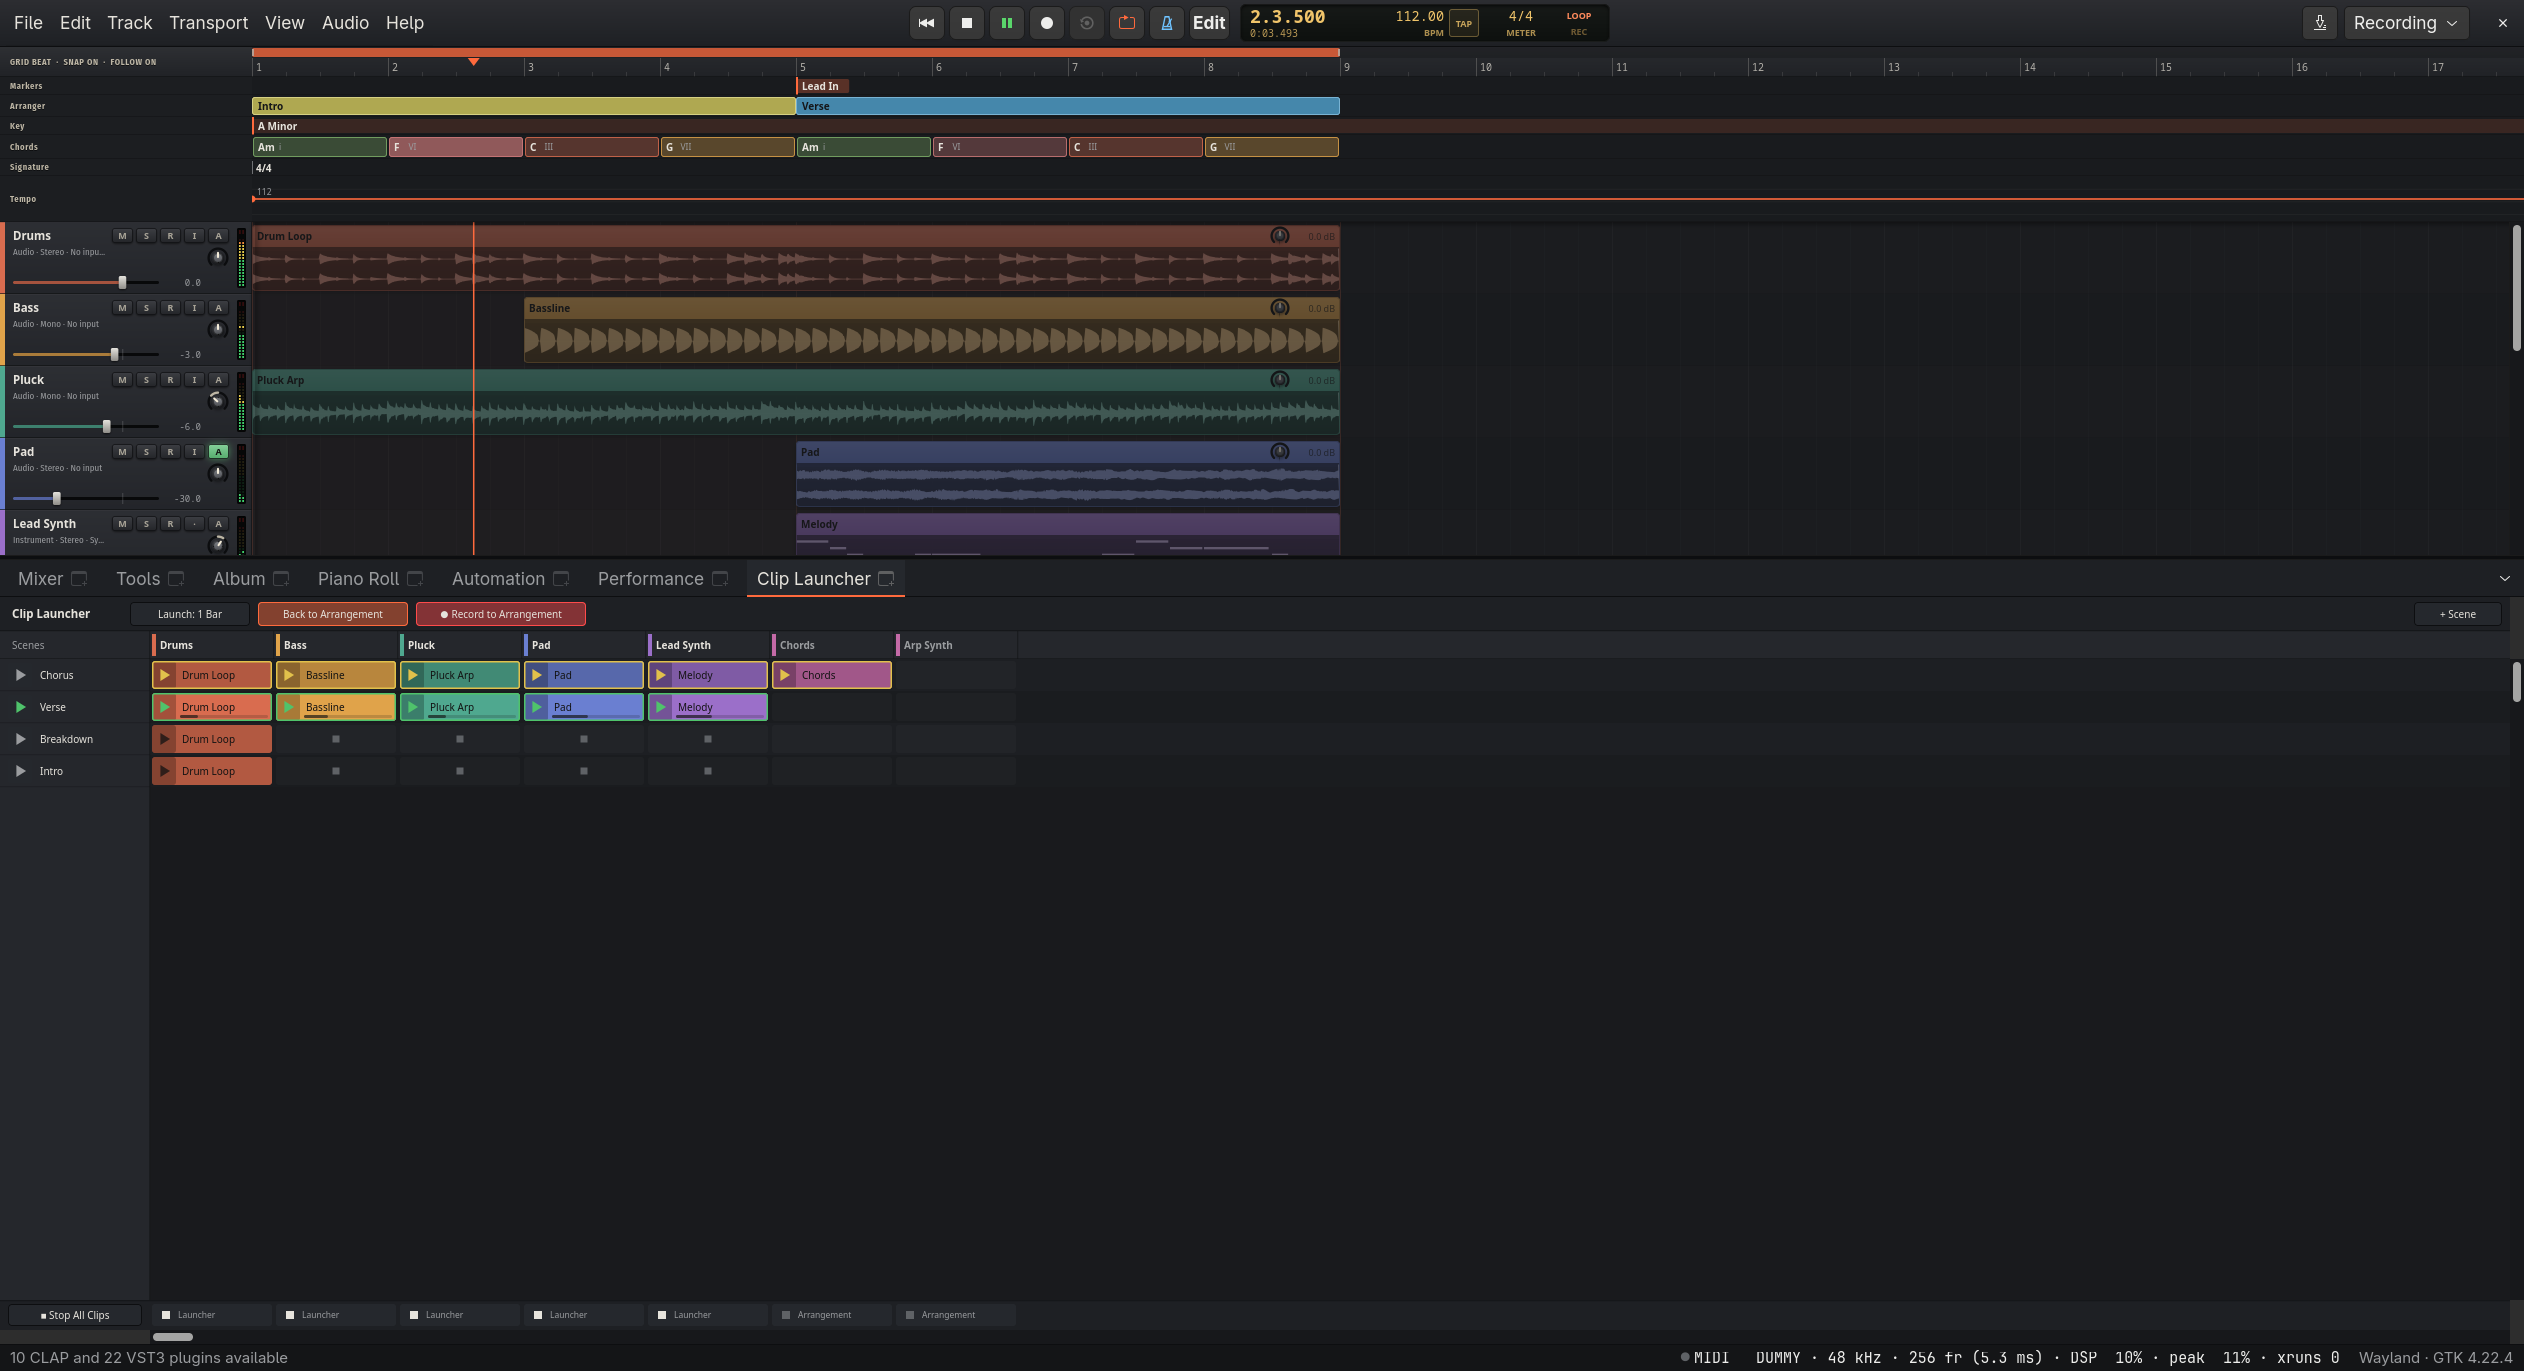
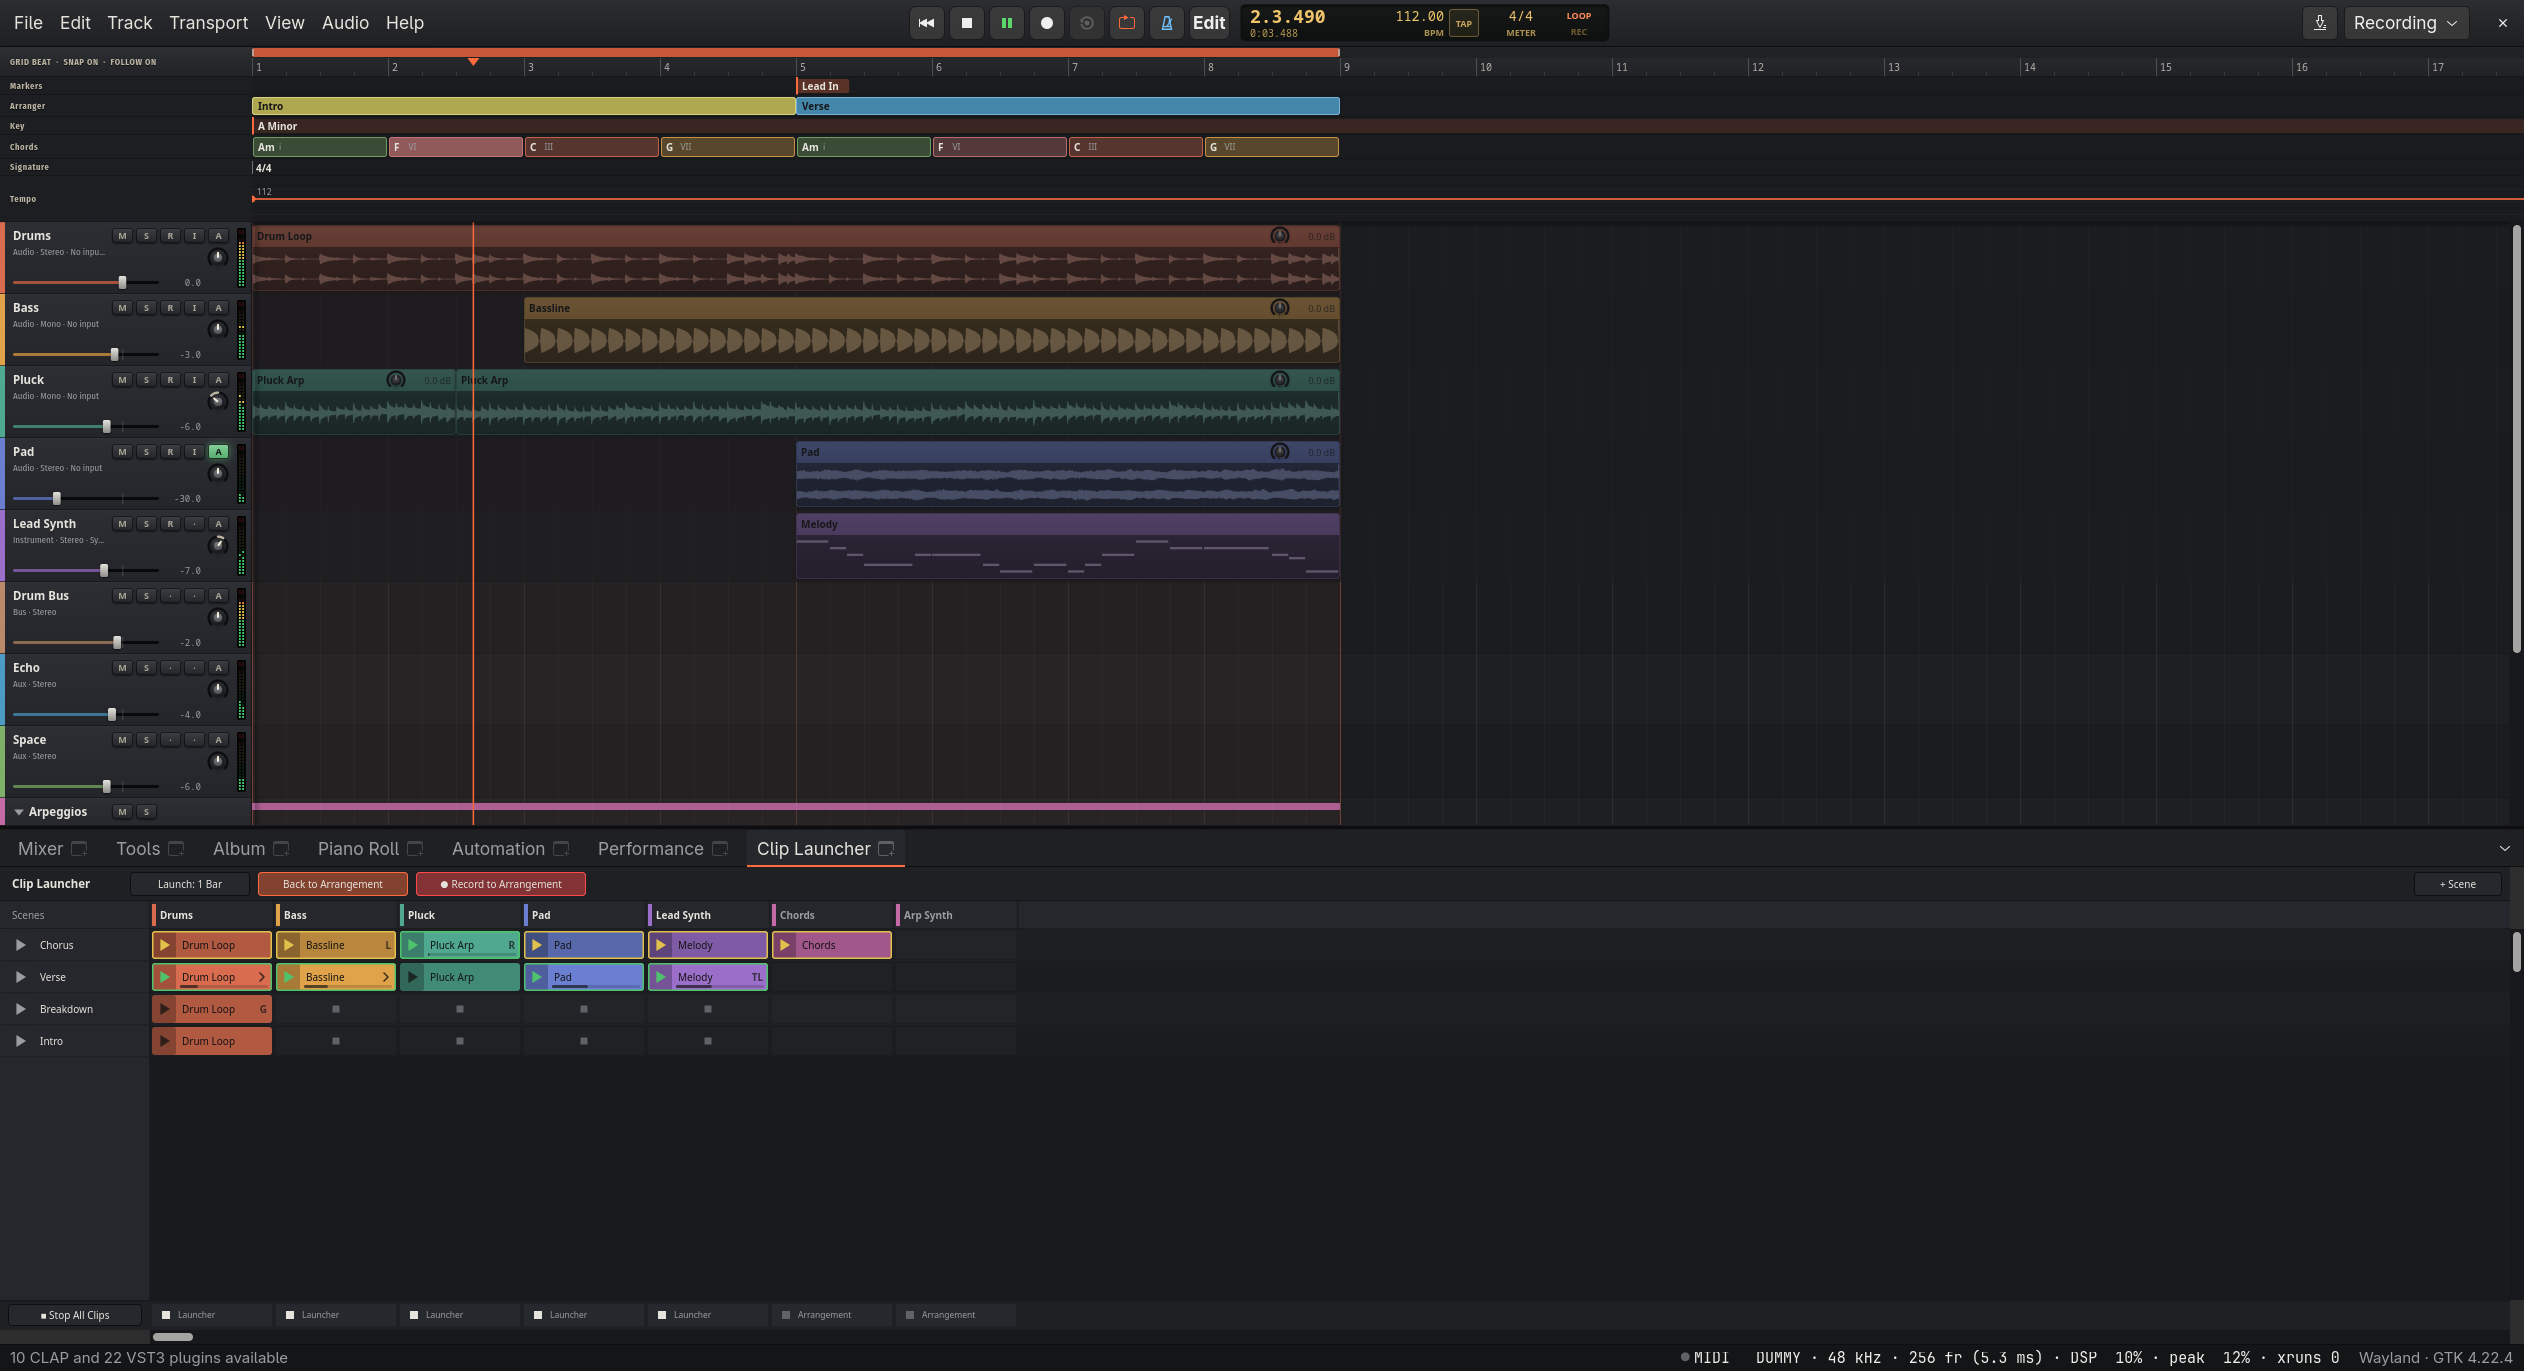
Release 0.10.0: performance and control, finished
The clip launcher's launch modes, clip quantisation and legato, follow
actions with a second action, chance and jumps, tempo-following audio,
slot recording with a fixed length, count-in and overdubs, Record to
Arrangement written as it plays with the mixer's moves, drags back to
the arrangement and between windows, MIDI learn; grid controllers
(Launchpad, APC mini, Push 2) and OSC launcher feedback; the rest of
Mackie Control and HUI; MIDI time code out and varispeed; modulators on
VST3 and AU parameters; full SFZ import; the macOS audio workgroup for
sandboxed plugins. The README's launcher screenshot shows launch modes,
follow actions and Record to Arrangement writing live.

Claude-Session: https://claude.ai/code/session_016ACA3h9Xm4rTgvjXC2vUiY

diff --git a/README.md b/README.md
@@ -68,10 +68,13 @@ saturator and a reverb rendered into the audio it plays):
 
 The clip launcher: the demo's clips sent to it in four scenes, the Verse
 playing (green, each clip's loop progress under its name) and the Chorus
-waiting for the next bar (yellow); Record to Arrangement is on, and the
-tracks that play the launcher are dimmed in the arranger above:
+waiting for the next bar (yellow). The letters are launch modes (G gate,
+T toggle, R repeat, L legato), the chevrons follow actions. Record to
+Arrangement is on: the Pluck's launched loop is already being written
+into the arrangement above, where the tracks that play the launcher are
+dimmed:
 
-![The clip launcher with four scenes, one playing and one queued](docs/screenshots/launcher.png)
+![The clip launcher with four scenes, one playing and one queued, launch modes and follow actions](docs/screenshots/launcher.png)
 
 Device editors: the EQ (dynamic and spectral bands, analyser), the synth
 (the dots on Cutoff and Resonance show where its modulators have them
